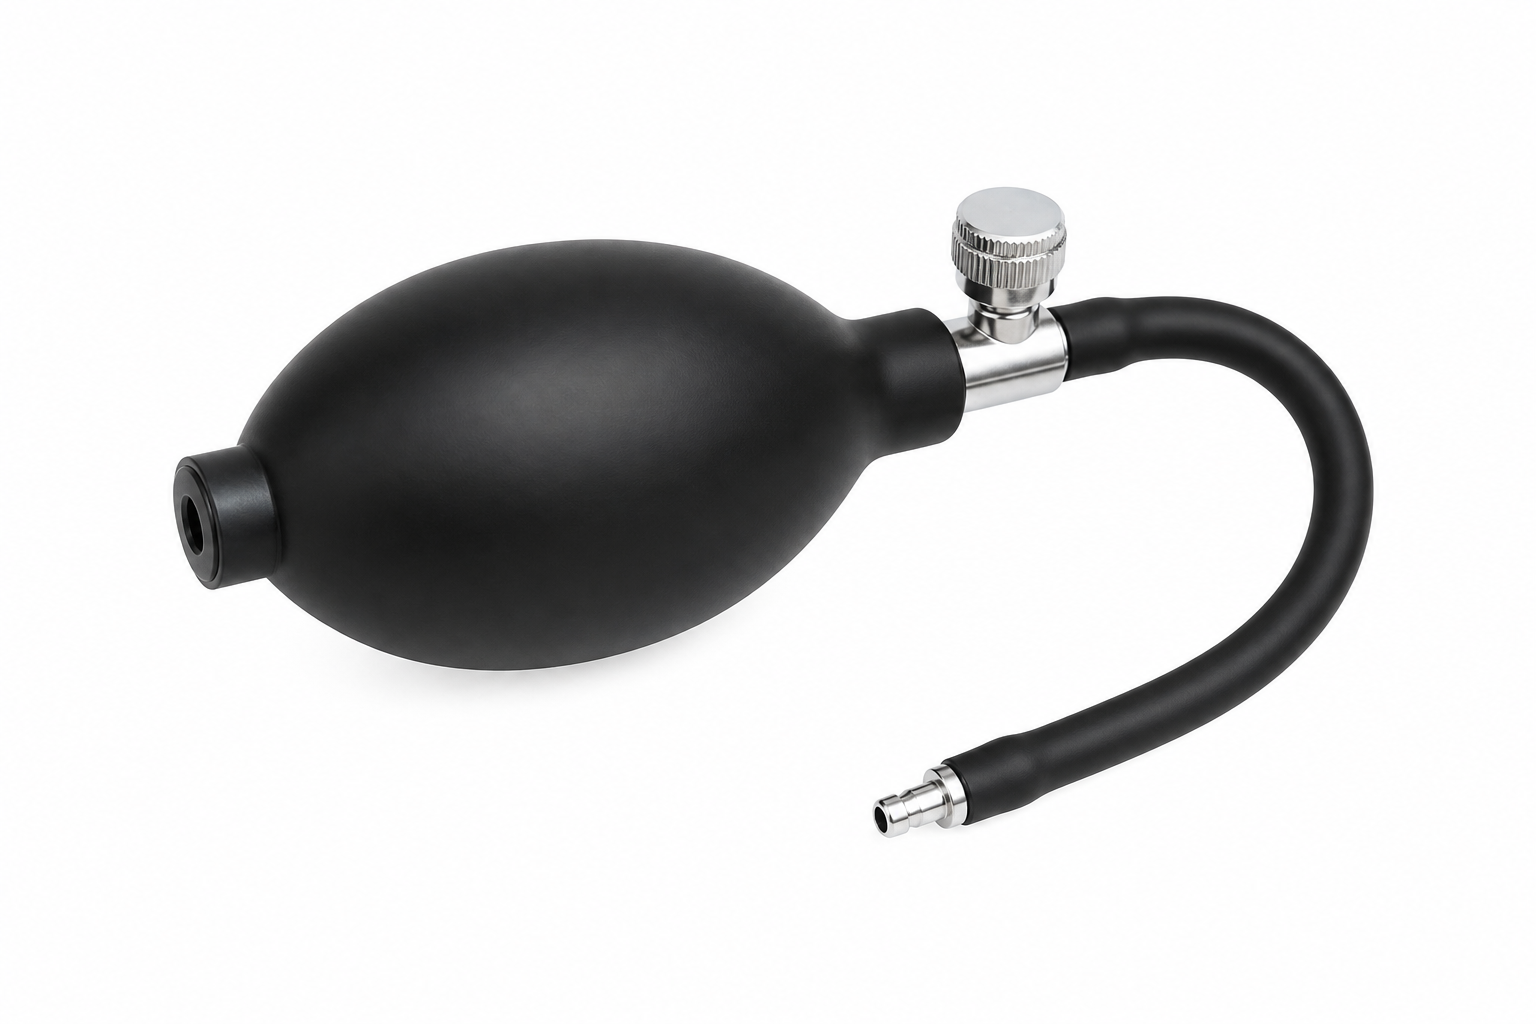
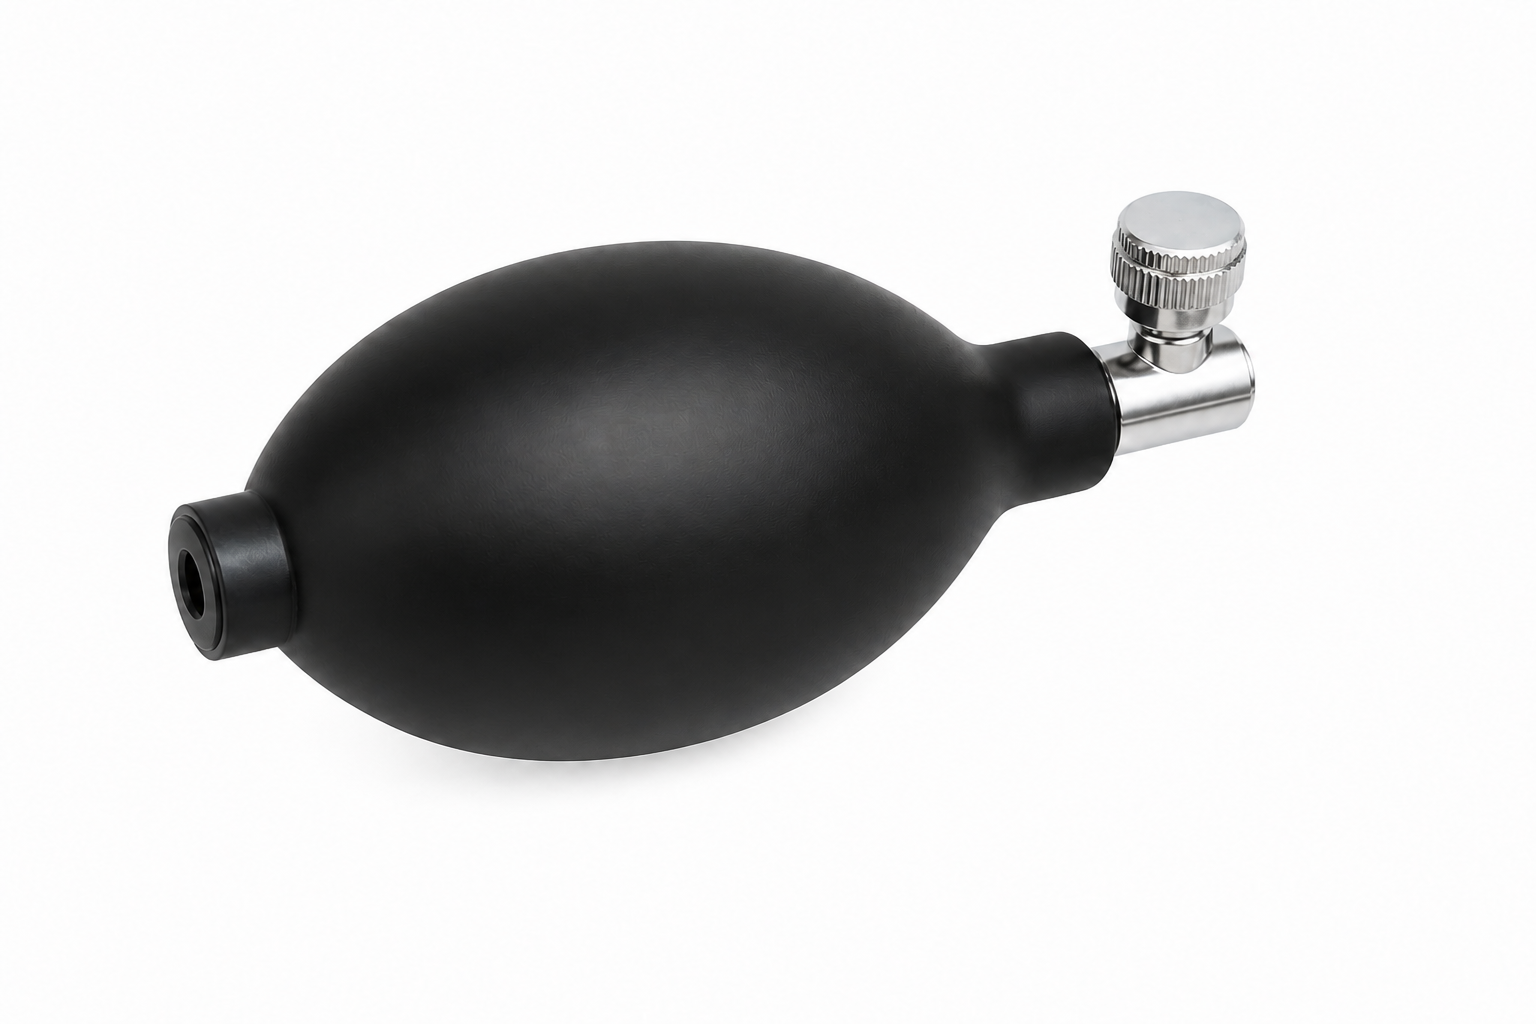
feat: update product catalog with new images and descriptions for comadre and papagaio

Changed region(s): [[0.0938, 0.1875, 0.9062, 0.8125]]

diff --git a/src/data/catalog-products.ts b/src/data/catalog-products.ts
@@ -1548,10 +1548,10 @@ const rawCatalogProducts: CatalogProduct[] = [
     brandIds: [],
     name: "Propé Descartável",
     summary: "Sapatilha descartável em TNT com elástico para cobertura dos calçados.",
-    description: "O propé descartável é uma sapatilha de uso único com borda elástica para ajuste sobre o calçado. A apresentação fotografada é azul e vendida em pacote. Confirme a gramatura e a quantidade disponíveis.",
-    images: [{ src: "/Produtos/prope-descartavel-azul.png", alt: "Par de propés descartáveis azuis com elástico" }],
-    highlights: ["TNT azul", "Borda elástica", "Uso único"], badges: ["Descartável", "Proteção"],
-    consultation: ["Quantidade por pacote", "Gramatura", "Disponibilidade"], keywords: ["prope", "sapatilha descartavel", "tnt azul", "cobre sapato"],
+    description: "O propé descartável é uma sapatilha de uso único com borda elástica para ajuste sobre o calçado. A apresentação fotografada é branca, em pacote com 100 unidades. Confirme a gramatura e a quantidade disponíveis.",
+    images: [{ src: "/Produtos/prope-descartavel.webp", alt: "Pacote com 100 propés descartáveis brancos em TNT" }],
+    highlights: ["TNT branco", "Borda elástica", "Uso único"], badges: ["Descartável", "Proteção"],
+    consultation: ["Quantidade por pacote", "Gramatura", "Disponibilidade"], keywords: ["prope", "sapatilha descartavel", "tnt", "cobre sapato"],
   },
   {
     id: "gaze",
@@ -1924,6 +1924,20 @@ const rawCatalogProducts: CatalogProduct[] = [
     highlights: ["Sistema fechado", "Válvula antirrefluxo", "Com graduação"], badges: ["Cuidados", "Descartável"], consultation: ["Apresentação", "Quantidade", "Orientação profissional"], keywords: ["bolsa coletora", "urina", "sistema fechado", "antirrefluxo", "drenagem"],
   },
   {
+    id: "comadre-plastica", categoryId: "cuidados-medico-hospitalares", brandIds: [], name: "Comadre Plástica",
+    summary: "Comadre plástica branca reutilizável para uso no leito, com cabo para manuseio.",
+    description: "A comadre plástica é um recipiente anatômico em plástico rígido, usado para as eliminações de pacientes acamados ou com mobilidade reduzida. Possui formato de pá com bordas arredondadas, que facilitam o posicionamento sob o paciente, e cabo lateral para apoio no manuseio e no descarte. É reutilizável: pode ser lavada e desinfetada entre os usos. Confirme a capacidade e a disponibilidade.",
+    images: [{ src: "/Produtos/comadre.webp", alt: "Comadre plástica branca com cabo lateral" }],
+    highlights: ["Formato anatômico em pá", "Bordas arredondadas", "Cabo para manuseio", "Lavável e reutilizável"], badges: ["Cuidados", "Reutilizável"], consultation: ["Capacidade", "Modelo", "Disponibilidade"], keywords: ["comadre", "aparadeira", "acamado", "leito", "higiene", "plastica"],
+  },
+  {
+    id: "papagaio-plastico", categoryId: "cuidados-medico-hospitalares", brandIds: [], name: "Papagaio Plástico com Tampa",
+    summary: "Urinol masculino em plástico translúcido, com alça e tampa.",
+    description: "O papagaio (urinol masculino) é um coletor de urina em plástico translúcido, indicado para pacientes acamados ou com mobilidade reduzida, no hospital ou em casa. Tem gargalo anatômico, alça integrada para segurar e transportar e tampa rosqueável que reduz odores e derramamentos. O corpo translúcido permite visualizar o volume coletado. É reutilizável, podendo ser lavado e desinfetado. Confirme a capacidade e a disponibilidade.",
+    images: [{ src: "/Produtos/papagaio-plastico.webp", alt: "Papagaio urinol masculino de plástico translúcido com tampa azul" }],
+    highlights: ["Tampa rosqueável", "Alça integrada", "Corpo translúcido", "Lavável e reutilizável"], badges: ["Cuidados", "Reutilizável"], consultation: ["Capacidade", "Modelo", "Disponibilidade"], keywords: ["papagaio", "urinol", "coletor de urina", "masculino", "acamado", "com tampa"],
+  },
+  {
     id: "esponja-com-escova-clorexidina",
     categoryId: "cuidados-medico-hospitalares",
     brandIds: [],
@@ -2008,14 +2022,14 @@ const rawCatalogProducts: CatalogProduct[] = [
     id: "mascara-tripla-descartavel-50", categoryId: "cuidados-medico-hospitalares", brandIds: ["medix"], name: "Máscara Tripla Descartável Branca – 50 Unidades",
     summary: "Máscara descartável branca de tripla camada, em caixa com 50 unidades.",
     description: "Máscara descartável branca com três camadas e elásticos auriculares. Apresentação em caixa com 50 unidades.",
-    images: [{ src: "/Produtos/mascara-tripla-descartavel-50.png", alt: "Caixa com máscaras descartáveis brancas de tripla camada" }],
+    images: [{ src: "/Produtos/mascara-tripla-descartavel-50-medix.webp", alt: "Caixa Medix com 50 máscaras descartáveis brancas de tripla camada" }],
     highlights: ["Tripla camada", "Elásticos auriculares", "Caixa com 50 unidades"], badges: ["Descartável", "50 unidades"], consultation: ["Apresentação", "Quantidade", "Disponibilidade"], keywords: ["mascara", "tripla", "descartavel", "branca", "50 unidades"],
   },
   {
     id: "touca-descartavel-100", categoryId: "cuidados-medico-hospitalares", brandIds: [], name: "Touca Descartável – 100 Unidades",
     summary: "Touca descartável branca com elástico, em pacote com 100 unidades.",
     description: "Touca descartável sanfonada com elástico para cobertura dos cabelos. Apresentação em pacote com 100 unidades.",
-    images: [{ src: "/Produtos/touca-descartavel-100.png", alt: "Pacote de toucas descartáveis brancas com uma touca aberta" }],
+    images: [{ src: "/Produtos/touca-descartavel-100.webp", alt: "Pacote de toucas descartáveis brancas sanfonadas" }],
     highlights: ["Com elástico", "Sanfonada", "Pacote com 100 unidades"], badges: ["Descartável", "100 unidades"], consultation: ["Apresentação", "Quantidade", "Disponibilidade"], keywords: ["touca", "descartavel", "sanfonada", "elastico", "100 unidades"],
   },
   {

diff --git a/src/data/catalog-filters.ts b/src/data/catalog-filters.ts
@@ -233,11 +233,13 @@ const rawCatalogSubcategories: CatalogSubcategory[] = [
     id: "urologia-e-incontinencia",
     categoryId: "cuidados-medico-hospitalares",
     label: "Urologia e incontinência",
-    description: "Sondas, coletores e dispositivos externos",
+    description: "Sondas, coletores, comadres e dispositivos externos",
     productIds: [
       "sonda-uretral-n08",
       "bolsa-coletora-urina-sistema-fechado",
       "dispositivo-incontinencia-masculina-g",
+      "comadre-plastica",
+      "papagaio-plastico",
     ],
     featuredProductId: "bolsa-coletora-urina-sistema-fechado",
   },
